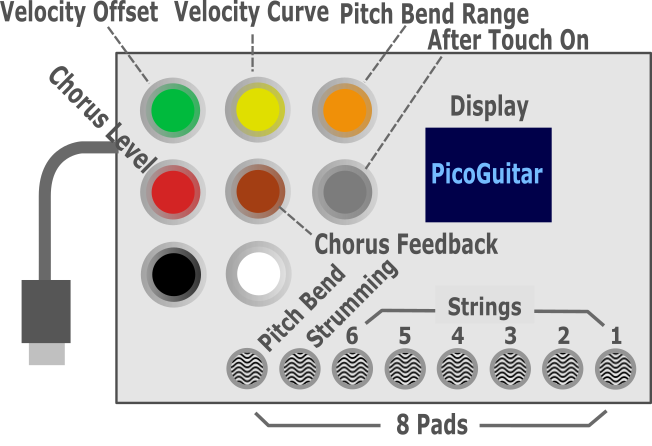
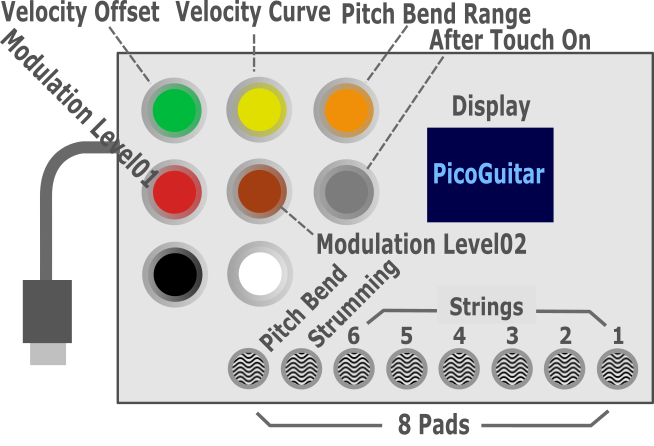
Document Updated.

diff --git a/Docs/UsersManual.md b/Docs/UsersManual.md
@@ -124,10 +124,10 @@
 　ピッチベンドで変化する音程の範囲を設定できます。スイッチを押すたびに0〜+12の範囲で変化します。1が半音に相当するので、最大1オクターブの範囲で設定できます。<br/>
 　0を選ぶとピッチベンドのパッドを押しても音程は変化しなくなります。<br/>
 
-### 7-4. MODULA LVL01
+### 7-4. Modulation Level01
 　アフタータッチでかかるエフェクトのモジュレーションのレベル（LSB側）を設定します。<br/>
 
-### 7-5. MODULA LVL02
+### 7-5. Modulation Level02
 　アフタータッチでかかるエフェクトのモジュレーションのレベル（MSB側）を設定します。<br/>
 
 ### 7-6. After Touch On
@@ -194,7 +194,7 @@
 ・INST:<br/>
 　選択されたGM音源楽器名が表示されています。<br/>
 ・PLAY DRUM:<br/>
-　ドラム演奏機能のON/OFFが表示されています。ONのとき、ギターの6弦に相当するPad1〜6がドラム用に変化します。ストローク演奏とピッチベンドはそのままです。<br/><br/>
+　ドラム演奏機能のON/OFFが表示されています。ONのとき、ギターの6弦に相当するPad1〜6がドラム用に変化します。ストローク演奏とピッチベンドはそのままです。<br/>
 ・DRUM:<br/>
 　指定されたドラムセット名が表示されています。<br/><br/>
 
